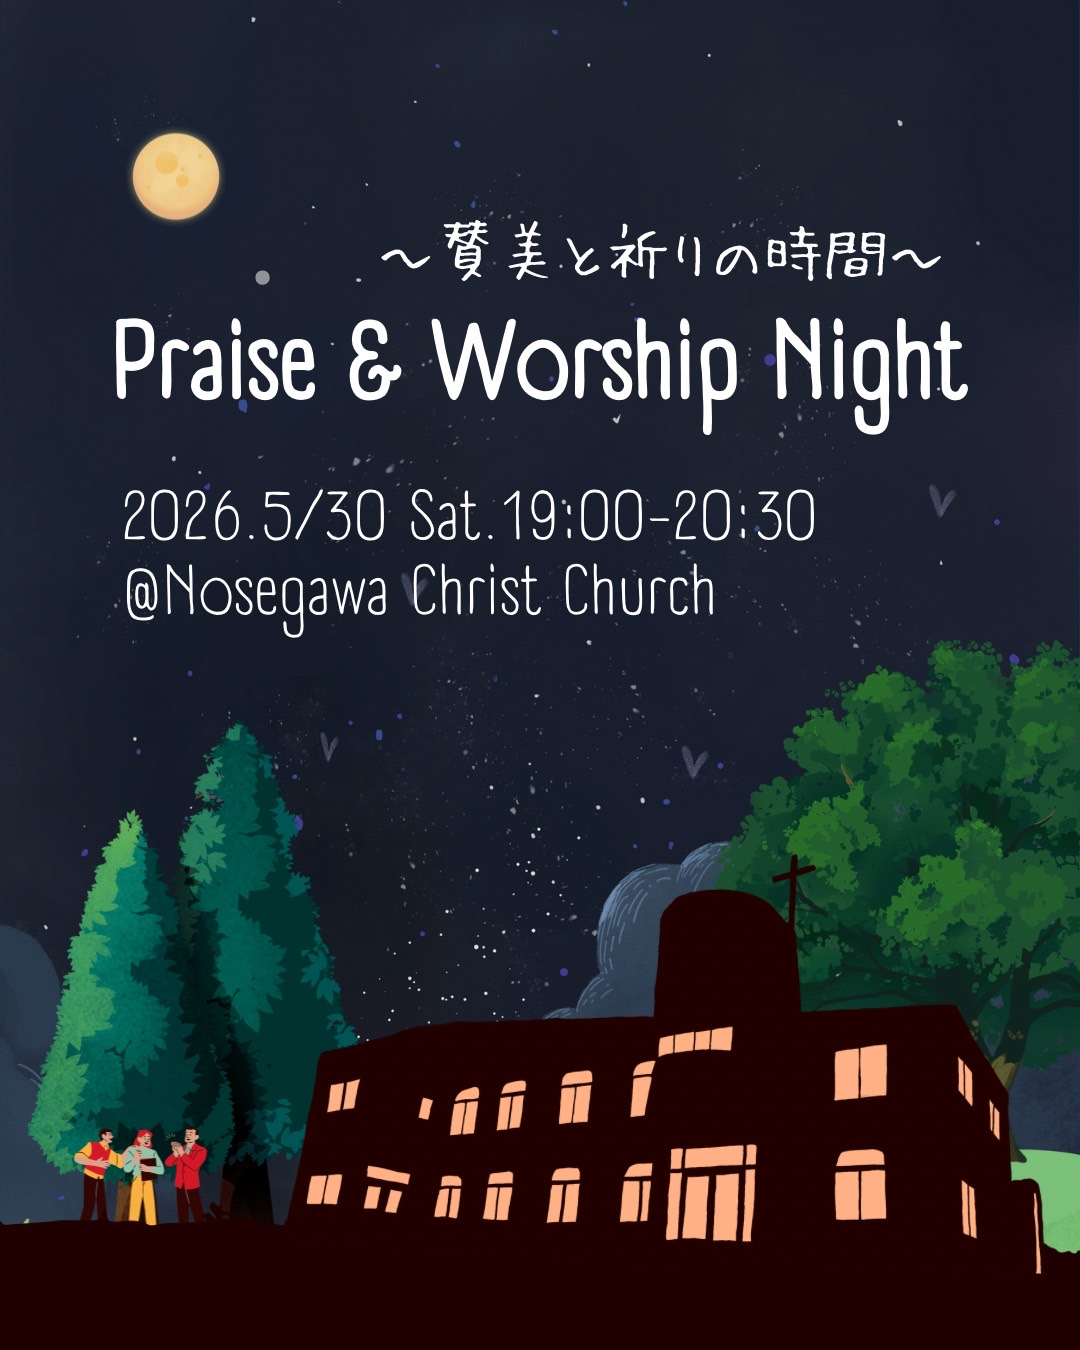
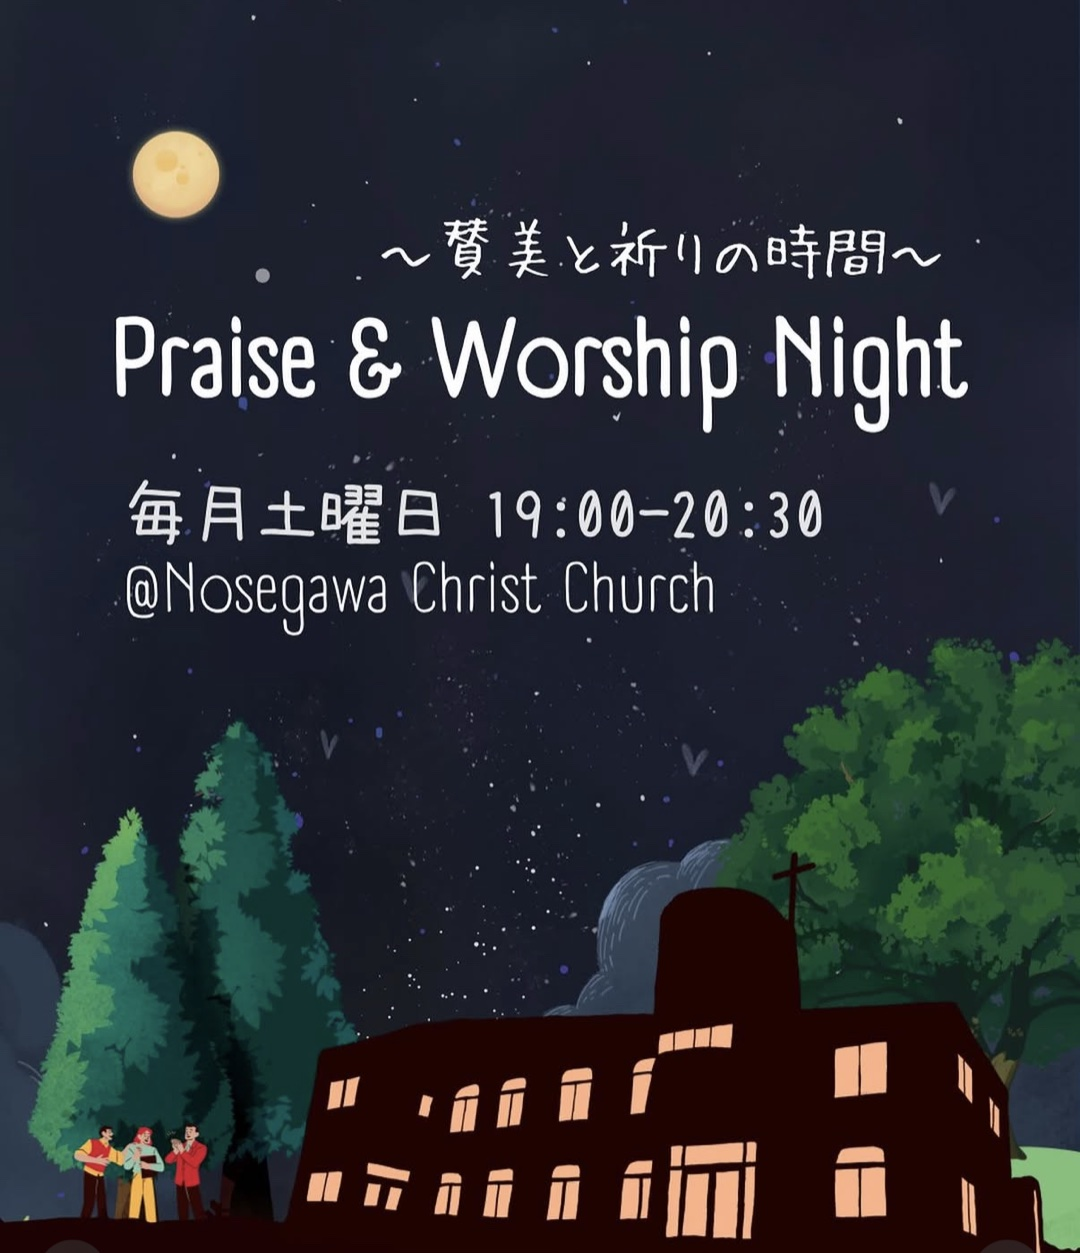
feat: Praise & Worship Night のフライヤーを最新版に差し替え
イベントが単発開催から毎月開催に変わったため、フライヤー画像と
それに紐づくページ上の日付表記を更新。

- public/images/event-praise-worship-night.jpg を新フライヤーに差し替え
  （PNG スクリーンショットから 1080x1253 の JPEG に変換、234KB）
- fellowship: Image の width/height を新画像の実寸に合わせて更新
  （800x1000 のままだとアスペクト比 0.8 で表示され縦に潰れるため）
- fellowship: alt と日付ラベルを「2026年5月30日（土）」から
  「毎月土曜日」に変更

Changed region(s): [[0.0, 0.4669, 1.0, 1.0], [0.0917, 0.1556, 0.9167, 0.498], [0.1222, 0.0934, 0.2139, 0.1868]]

diff --git a/src/app/fellowship/page.tsx b/src/app/fellowship/page.tsx
@@ -95,9 +95,9 @@ export default function FellowshipPage() {
                 <div className="relative overflow-hidden rounded-2xl shadow-2xl">
                   <Image
                     src="/images/event-praise-worship-night.jpg"
-                    alt="Praise & Worship Night — 2026.5/30 Sat. 19:00-20:30 @Nosegawa Christ Church"
-                    width={800}
-                    height={1000}
+                    alt="Praise & Worship Night — 毎月土曜日 19:00-20:30 @Nosegawa Christ Church"
+                    width={1080}
+                    height={1253}
                     className="w-full h-auto"
                     sizes="(max-width: 768px) 90vw, 340px"
                   />
@@ -122,7 +122,7 @@ export default function FellowshipPage() {
 
                 <div className="flex flex-col gap-2.5">
                   {[
-                    { icon: "M8 7V3m8 4V3m-9 8h10M5 21h14a2 2 0 002-2V7a2 2 0 00-2-2H5a2 2 0 00-2 2v12a2 2 0 002 2z", label: "2026年5月30日（土）" },
+                    { icon: "M8 7V3m8 4V3m-9 8h10M5 21h14a2 2 0 002-2V7a2 2 0 00-2-2H5a2 2 0 00-2 2v12a2 2 0 002 2z", label: "毎月土曜日" },
                     { icon: "M12 8v4l3 3m6-3a9 9 0 11-18 0 9 9 0 0118 0z", label: "19:00 – 20:30" },
                     { icon: "M17.657 16.657L13.414 20.9a1.998 1.998 0 01-2.827 0l-4.244-4.243a8 8 0 1111.314 0z M15 11a3 3 0 11-6 0 3 3 0 016 0z", label: "能勢川キリスト教会" },
                   ].map((item) => (
